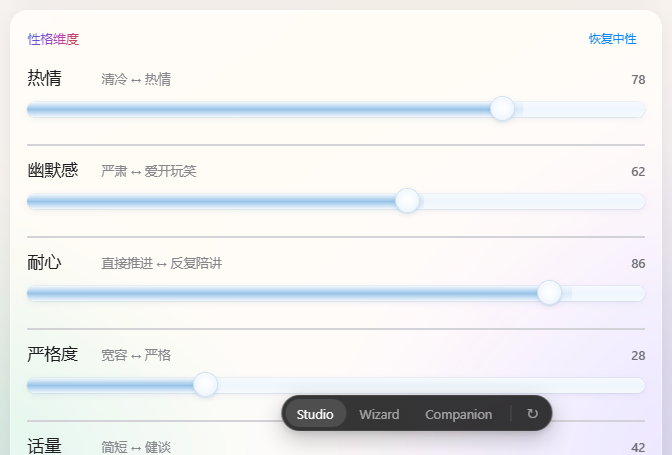
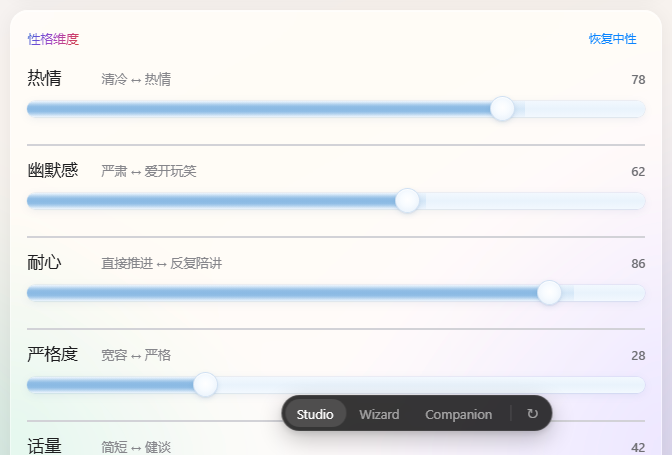
style(proto): 滑条 v6 — 峰改平台，去掉中间分界线，整体加浓
为什么会有一条中线：
v5 是钟形峰，50% 处最浓，峰两侧斜率相反。
视觉上斜率反转的位置就会被看成一条线。

改法：
1. 峰 -> 平台
   44%~56% 用同一个 alpha（.72），这段变化率为 0，
   没有可看的边界，墨水看起来是"完全扩散开"
2. 整体加浓
   蓝 #7fb4e2 -> #6fa9dc，外缘 .14 -> .18，
   管体也带一点蓝（#f2f8fe -> #e9f3fc）
3. 晕层继续比填充宽 16px，越过滑块往外渗

两侧过渡保留 5 档（0.18 / 0.46 / 0.68），边缘依旧是化开的。
三宽度检测全绿，控制台零错误。

diff --git a/prototypes/Costudy-UI-原型.html b/prototypes/Costudy-UI-原型.html
@@ -1693,6 +1693,95 @@ input[type="range"]::-webkit-slider-thumb {
   );
 }
 /* ==========================================================
+   滑条 v6：完全扩散开的墨 —— 中间不留分界线
+   v5 是钟形峰（50% 处最浓），峰的两侧斜率相反，
+   在视觉上会形成一条"中线"。墨完全扩散开之后不该有这条线。
+
+   改法：
+   1. 峰 -> 平台：44%~56% 用同一 alpha，中间没有变化率，
+      也就没有可看的线
+   2. 整体加浓：蓝从 #7fb4e2 到 #6fa9dc，平台 alpha .72，
+      管体也带一点蓝
+   ========================================================== */
+input[type="range"]::-webkit-slider-runnable-track {
+  height: 16px;
+  background-image:
+    linear-gradient(
+      180deg,
+      rgba(111, 169, 220, 0) 0%,
+      rgba(111, 169, 220, 0.18) 10%,
+      rgba(111, 169, 220, 0.46) 22%,
+      rgba(111, 169, 220, 0.68) 34%,
+      rgba(111, 169, 220, 0.72) 44%,
+      rgba(111, 169, 220, 0.72) 56%,
+      rgba(111, 169, 220, 0.68) 66%,
+      rgba(111, 169, 220, 0.46) 78%,
+      rgba(111, 169, 220, 0.18) 90%,
+      rgba(111, 169, 220, 0) 100%
+    ),
+    linear-gradient(
+      180deg,
+      rgba(143, 190, 232, 0) 0%,
+      rgba(143, 190, 232, 0.12) 24%,
+      rgba(143, 190, 232, 0.22) 50%,
+      rgba(143, 190, 232, 0.12) 76%,
+      rgba(143, 190, 232, 0) 100%
+    ),
+    linear-gradient(
+      180deg,
+      #f2f8fe 0%,
+      #e9f3fc 50%,
+      #f2f8fe 100%
+    );
+  background-size:
+    var(--pct, 50%) 16px,
+    calc(var(--pct, 50%) + 16px) 20px,
+    100% 100%;
+  background-position:
+    0 50%,
+    0 50%,
+    0 0;
+  background-repeat: no-repeat;
+  box-shadow:
+    0 0 0 0.5px rgba(118, 165, 212, 0.24),
+    0 2px 8px rgba(88, 128, 172, 0.1),
+    0 1px 1px rgba(88, 128, 172, 0.05);
+}
+
+/* 进度条：同样平台 + 加浓 */
+.bar,
+.v-wiz .bar,
+.v-comp .bar,
+.v-studio .bar {
+  height: 18px;
+  background-image: linear-gradient(
+    180deg,
+    #f2f8fe 0%,
+    #e9f3fc 50%,
+    #f2f8fe 100%
+  );
+}
+
+.bar > i,
+.v-wiz .bar > i,
+.v-comp .bar > i,
+.v-studio .bar > i {
+  height: 18px;
+  background-image: linear-gradient(
+    180deg,
+    rgba(111, 169, 220, 0) 0%,
+    rgba(111, 169, 220, 0.18) 10%,
+    rgba(111, 169, 220, 0.46) 22%,
+    rgba(111, 169, 220, 0.68) 34%,
+    rgba(111, 169, 220, 0.72) 44%,
+    rgba(111, 169, 220, 0.72) 56%,
+    rgba(111, 169, 220, 0.68) 66%,
+    rgba(111, 169, 220, 0.46) 78%,
+    rgba(111, 169, 220, 0.18) 90%,
+    rgba(111, 169, 220, 0) 100%
+  );
+}
+/* ==========================================================
    大背景透明层
    外壳（html/body/#stage/.app）不铺任何底色 —— 只剩材质。
    玻璃后面是什么，由 data-backdrop 决定：

diff --git a/prototypes/costudy-ui/liquid-glass.css b/prototypes/costudy-ui/liquid-glass.css
@@ -892,3 +892,92 @@ input[type="range"]::-webkit-slider-thumb {
     rgba(127, 180, 226, 0) 100%
   );
 }
+/* ==========================================================
+   滑条 v6：完全扩散开的墨 —— 中间不留分界线
+   v5 是钟形峰（50% 处最浓），峰的两侧斜率相反，
+   在视觉上会形成一条"中线"。墨完全扩散开之后不该有这条线。
+
+   改法：
+   1. 峰 -> 平台：44%~56% 用同一 alpha，中间没有变化率，
+      也就没有可看的线
+   2. 整体加浓：蓝从 #7fb4e2 到 #6fa9dc，平台 alpha .72，
+      管体也带一点蓝
+   ========================================================== */
+input[type="range"]::-webkit-slider-runnable-track {
+  height: 16px;
+  background-image:
+    linear-gradient(
+      180deg,
+      rgba(111, 169, 220, 0) 0%,
+      rgba(111, 169, 220, 0.18) 10%,
+      rgba(111, 169, 220, 0.46) 22%,
+      rgba(111, 169, 220, 0.68) 34%,
+      rgba(111, 169, 220, 0.72) 44%,
+      rgba(111, 169, 220, 0.72) 56%,
+      rgba(111, 169, 220, 0.68) 66%,
+      rgba(111, 169, 220, 0.46) 78%,
+      rgba(111, 169, 220, 0.18) 90%,
+      rgba(111, 169, 220, 0) 100%
+    ),
+    linear-gradient(
+      180deg,
+      rgba(143, 190, 232, 0) 0%,
+      rgba(143, 190, 232, 0.12) 24%,
+      rgba(143, 190, 232, 0.22) 50%,
+      rgba(143, 190, 232, 0.12) 76%,
+      rgba(143, 190, 232, 0) 100%
+    ),
+    linear-gradient(
+      180deg,
+      #f2f8fe 0%,
+      #e9f3fc 50%,
+      #f2f8fe 100%
+    );
+  background-size:
+    var(--pct, 50%) 16px,
+    calc(var(--pct, 50%) + 16px) 20px,
+    100% 100%;
+  background-position:
+    0 50%,
+    0 50%,
+    0 0;
+  background-repeat: no-repeat;
+  box-shadow:
+    0 0 0 0.5px rgba(118, 165, 212, 0.24),
+    0 2px 8px rgba(88, 128, 172, 0.1),
+    0 1px 1px rgba(88, 128, 172, 0.05);
+}
+
+/* 进度条：同样平台 + 加浓 */
+.bar,
+.v-wiz .bar,
+.v-comp .bar,
+.v-studio .bar {
+  height: 18px;
+  background-image: linear-gradient(
+    180deg,
+    #f2f8fe 0%,
+    #e9f3fc 50%,
+    #f2f8fe 100%
+  );
+}
+
+.bar > i,
+.v-wiz .bar > i,
+.v-comp .bar > i,
+.v-studio .bar > i {
+  height: 18px;
+  background-image: linear-gradient(
+    180deg,
+    rgba(111, 169, 220, 0) 0%,
+    rgba(111, 169, 220, 0.18) 10%,
+    rgba(111, 169, 220, 0.46) 22%,
+    rgba(111, 169, 220, 0.68) 34%,
+    rgba(111, 169, 220, 0.72) 44%,
+    rgba(111, 169, 220, 0.72) 56%,
+    rgba(111, 169, 220, 0.68) 66%,
+    rgba(111, 169, 220, 0.46) 78%,
+    rgba(111, 169, 220, 0.18) 90%,
+    rgba(111, 169, 220, 0) 100%
+  );
+}
